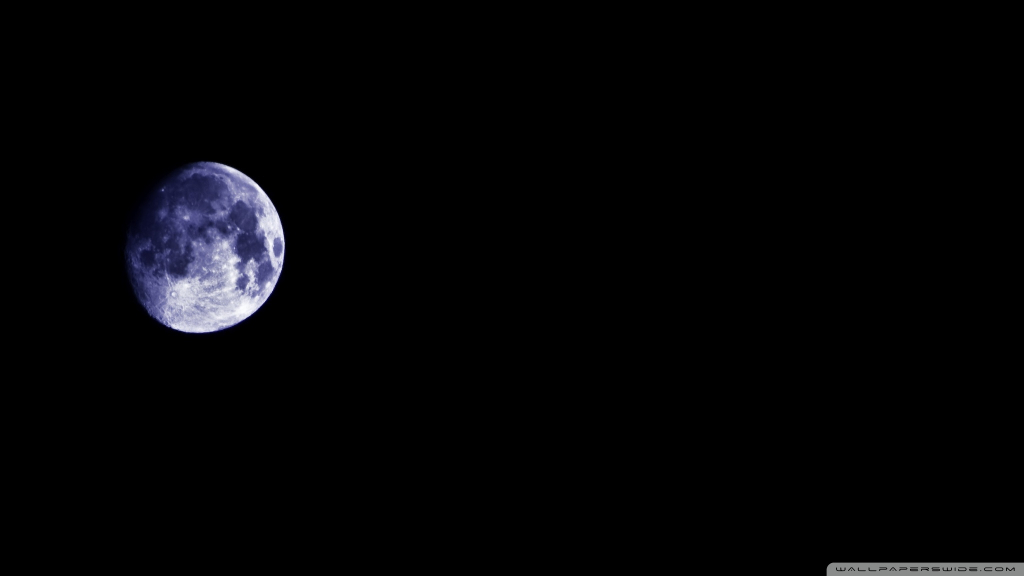
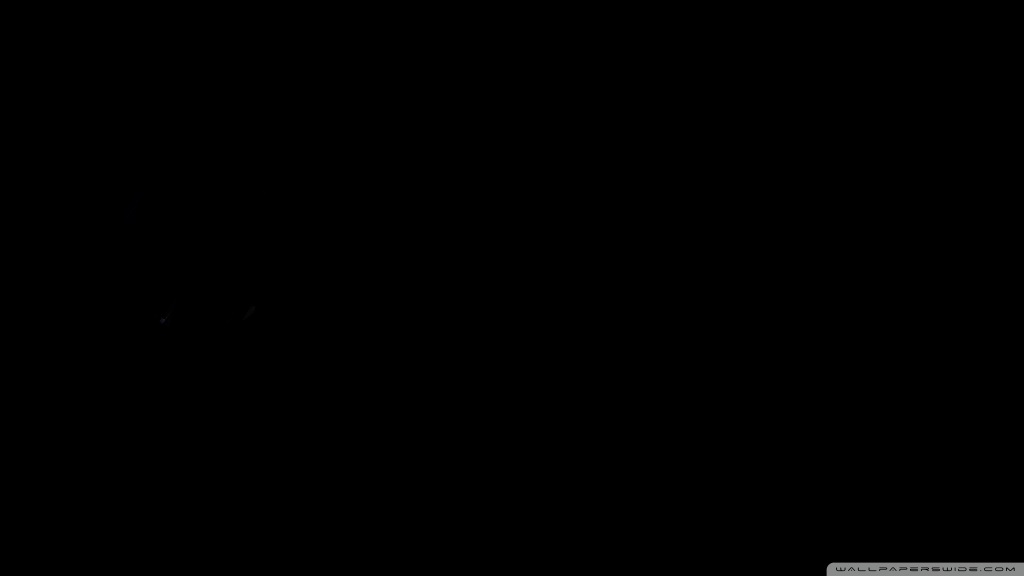
commit

Changed region(s): [[0.125, 0.2812, 0.2812, 0.5938]]

diff --git a/style.css b/style.css
@@ -9,22 +9,36 @@
     height: 100vh;
     overflow: hidden;
     position: relative;
-}
+    }
 .highway
 {
     
-    width: 500%;
+    width: 1000%;
     height: 200px;
     background-image: url(./tempimg/highway.jpg);
     position: absolute;
     left: 0;
     right: 0;
     bottom: 0;
-    animation : high 5s linear infinite;
+    animation : high .1s linear infinite;
 }
 @keyframes high {
     100%{
         transform: translate(-1500px);
+    }
+}
+.moon{
+    position: relative;
+    width: 200px;
+    height: 100px;
+    z-index: 1;
+    top: 10px;
+    left: 1350px    ;
+     animation : high1 4s linear infinite;  
+}
+@keyframes high1 {
+    100%{
+        transform: translateX(-1500px) translateY(250px);
     }
 }
 .build
@@ -37,7 +51,7 @@
     left: 0;
     right: 0;
     z-index: 2;
-    animation : city 10s linear infinite;
+    animation : city .5s linear infinite;
 }
 @keyframes city {
     100%{
@@ -55,7 +69,7 @@
 .car img
 {
     width: 100%;
-    animation : car 1s linear infinite;
+    animation : car .001s linear infinite;
 }
 @keyframes car {
     0%{
@@ -81,7 +95,7 @@
 .wheel img{
     width: 72px;
     height: 72px;
-    animation : wheel 2s linear infinite;
+    animation : wheel 0.0001s linear infinite;
 }
 @keyframes wheel {
     100%{

diff --git a/car.html b/car.html
@@ -13,6 +13,9 @@
     <div class="sky">
         <div class="highway"></div>
         <div class="build"> </div>
+        <div class="moon">
+            <img src="./tempimg/moon.png" alt="">
+        </div>
         <div class="car">
             <img src="./tempimg/car.png">
         </div>
